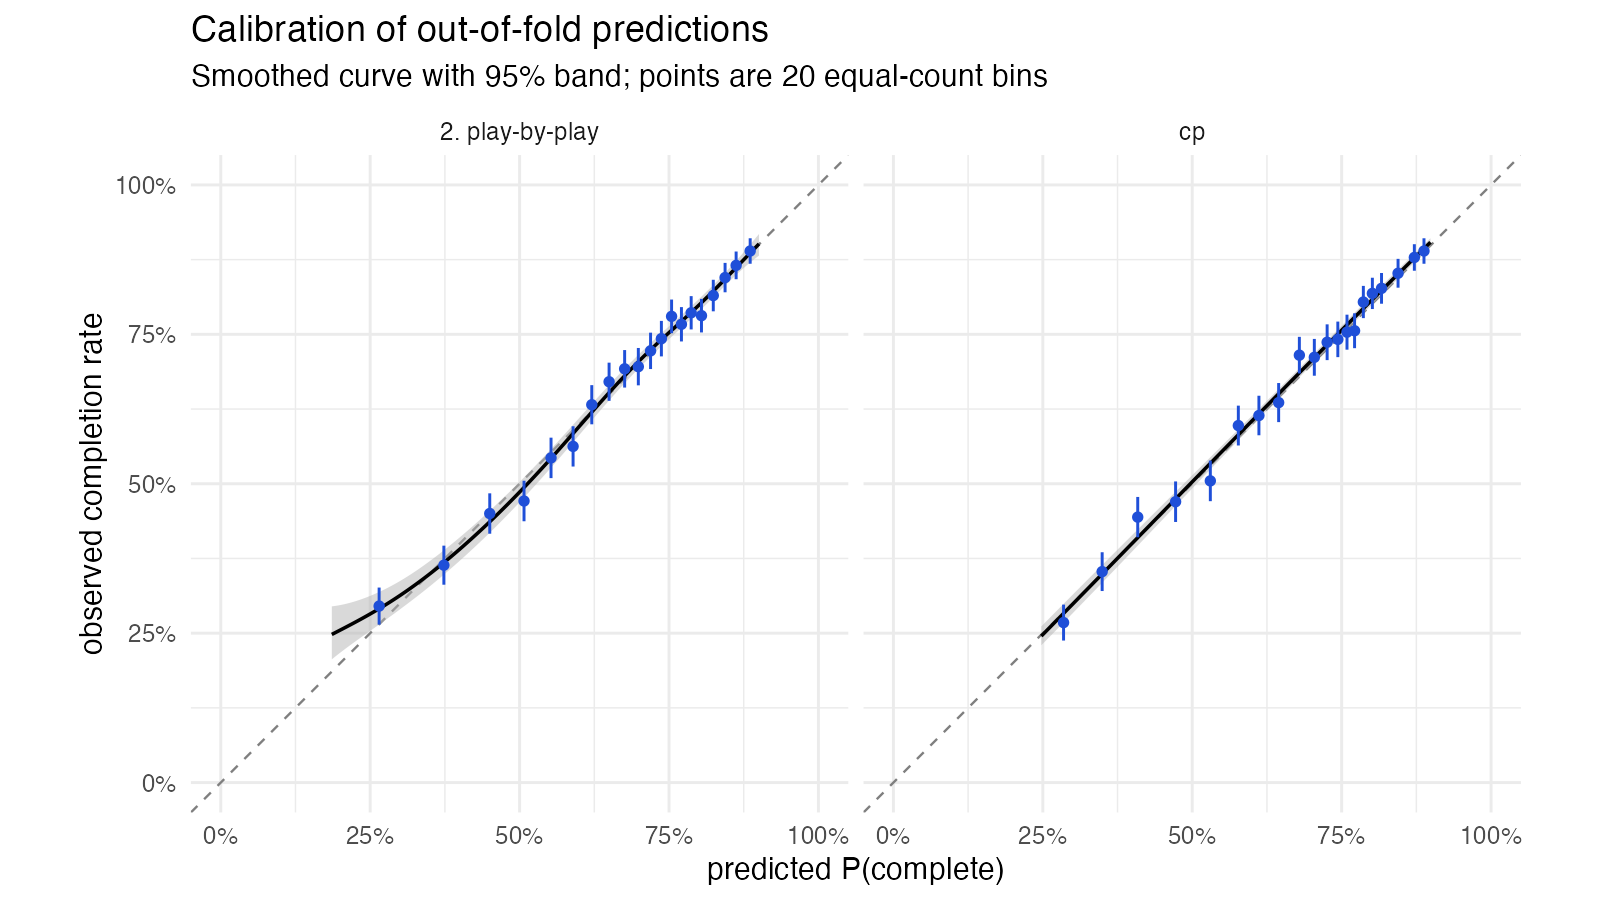
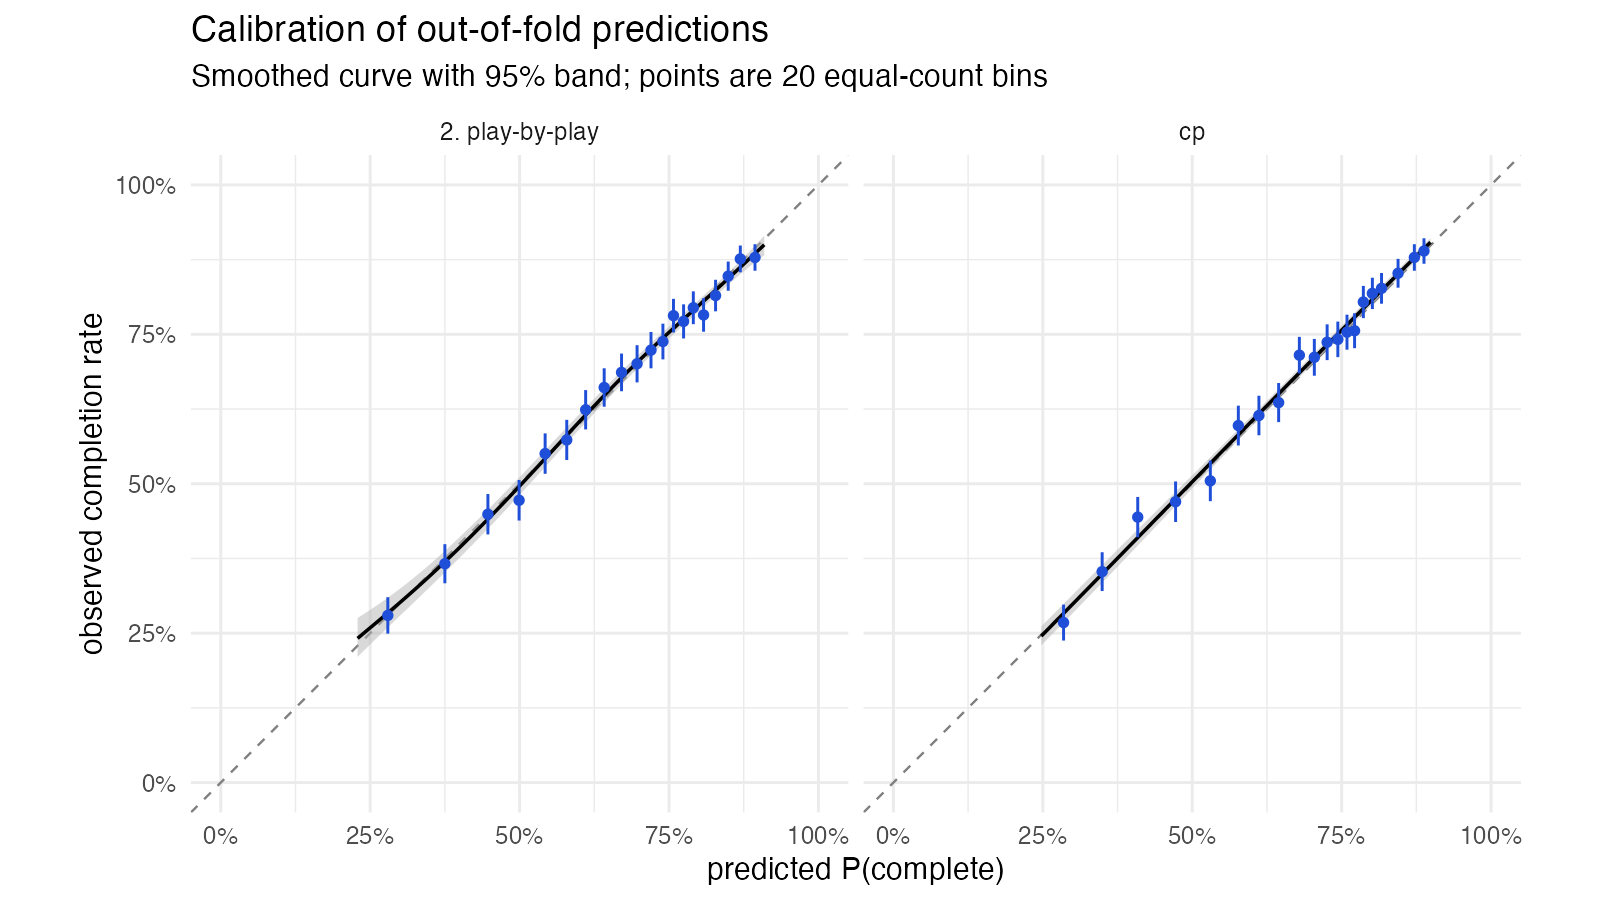
feat(evaluate): QB hit effect varies with depth in stage 2
Stage 2 replaces the single qb_hit coefficient with
s(air_yards, by = qb_hit). A diagnosis of out-of-fold term contributions
found the observed hit effect fading with depth (logit -1.57 behind the
line to -0.32 at 20+ air yards) while the model applied about -0.8
everywhere, over-spreading predictions on deep throws.

Out of fold on 16,643 throws: log loss improves by 0.0012 nats
[0.0003, 0.0021]; deep-bucket calibration slope 0.62 -> 0.76
[0.50, 1.02]; gap to cp 0.0077 -> 0.0065. prepare_model_frame() now
asserts qb_hit is numeric, since a factor `by` fits one smooth per level.

Notebook sections 3 and 7.3 and decisions 7 and 9.3-9.7 updated.

Changed region(s): [[0.2812, 0.2489, 0.5, 0.6222], [0.1875, 0.6222, 0.2812, 0.7467]]

diff --git a/notes/decisions.md b/notes/decisions.md
@@ -683,7 +683,7 @@ cross-validation. Details in §9.
 - **`qb_hit` is a covariate, not a filter.** It does not distinguish "hit
   during the throw" from "hit after", so excluding it would remove real passes
   and may itself select on outcome. Present on 2,761 plays on the spine (14.4%).
-  Its stage 2 coefficient is $-0.88$ (§9.3).
+  It enters stage 2 as a depth-varying effect (§9.3).
 - **Targeted receiver as population** (§4.9). This also closes two earlier
   checks: throwaways and spikes carry no BDB target (all 407 untargeted throws
   in the analytic sample; all 75 spikes), so no separate pbp-derived throwaway
@@ -695,6 +695,8 @@ cross-validation. Details in §9.
 - **Resampling unit for $\Delta$ log loss intervals: game** (§9.5).
 - **Calibration method** (§9.6) and **`cp` benchmark method** (§9.7): fixed
   external predictions, no recalibration.
+- **Stage 2 depth interaction: QB hit × depth** (§9.3). Decided before any
+  stage 3 result exists. Stage 3–4 results are still reported by depth.
 
 ### Open
 
@@ -719,10 +721,6 @@ cross-validation. Details in §9.
 - **`FLAG_GROUP` relabel** for `keep_arrival` (§4.8).
 - **Depth control.** The tracking-derived throw distance replaces `air_yards`
   in stage 2 once `06` exists; `air_yards` becomes a robustness refit (§9.3).
-- **Stage 2 on deep throws.** Calibration slope 0.62 within 20+ air yards
-  (§9.6). Whether stage 2 should gain a depth interaction, given that this
-  changes the baseline geometry is measured against. Until decided, stage 3–4
-  results are reported by depth.
 - **`receiver_player_name` in `pbp.parquet`.** Add it to `PBP_COLS` and re-run
   `05` (a rebuild of `data/processed/pbp.parquet`, no network) so `08` does not
   read the interim mirror.
@@ -977,7 +975,8 @@ Stage 1: intercept-only `glm()`.
 
 Stage 2 (`mgcv::gam()`, REML):
 `s(air_yards) + s(dist_to_sticks) + s(los_x) + s(number_of_pass_rushers, k = 5)
-+ air_yards_zero + down + pass_location + shotgun + home + qb_hit`.
++ s(air_yards, by = qb_hit) + air_yards_zero + down + pass_location + shotgun +
+home`.
 
 **The nesting is the argument.** Stage 2 already knows the situation and the
 throw's depth, so stages 3 and 4 must earn their improvement on coverage
@@ -988,19 +987,60 @@ in-sample $p$-value.**
 Stage 2 follows `cp`'s feature set where BDB supports it. Departures:
 
 - **Three pass locations**, not middle/not-middle. Against left, middle is
-  $+0.177$ (SE 0.047) and right $-0.058$ (SE 0.040, $p = 0.15$). Middle differs
+  $+0.182$ (SE 0.047) and right $-0.055$ (SE 0.041, $p = 0.17$). Middle differs
   from both sides. Left and right differed by about 3.6 SE on the population
   before §4.9 and are not distinguishable on this one; the three-level coding is
   kept rather than revised on a $p$-value.
-- **`number_of_pass_rushers` added** ($\chi^2 = 40.0$, edf 1.01): a defensive
+- **`number_of_pass_rushers` added** ($\chi^2 = 39.9$, edf 1.00): a defensive
   control, so stage 3–4 features cannot be said to recapture rushers versus
   droppers.
-- **`air_yards_zero` included**: $-0.67$ (SE 0.084) against an intercept of
-  $1.08$, about half the odds of completion. When it was added during
+- **`air_yards_zero` included**: $-0.62$ (SE 0.083) against an intercept of
+  $1.09$, about half the odds of completion. When it was added during
   specification (on the population before §4.9), `s(air_yards)` edf rose from
   4.37 to 7.67 and deviance explained improved on a smaller model.
 - `roof` and era omitted: era is meaningless in one season, and `roof` is not
   in `PBP_COLS`.
+- **The QB-hit effect varies with depth**: `s(air_yards, by = qb_hit)` in place
+  of a single `qb_hit` coefficient. A smooth with a numeric `by` is not
+  centered, so it carries the level of the hit effect and there is no separate
+  `qb_hit` term. See below.
+
+**Adopted: QB hit × depth.** Diagnosis of the earlier specification (single
+`qb_hit` coefficient), which had a calibration slope of 0.62 [0.41, 0.84] on
+throws of 20+ air yards (§9.6). Out-of-fold term contributions were refit
+within each air-yards bucket; `qb_hit` was the term whose effect departed from
+its full-sample strength, and the departure was monotone in depth:
+
+| Air yards | Plays with a hit | Observed hit effect (logit) | Model's hit effect (logit) |
+|---|---|---|---|
+| ≤ 0 | 219 (6.5%) | −1.57 | −0.87 |
+| 1–9 | 548 (7.1%) | −0.94 | −0.81 |
+| 10–19 | 407 (11.3%) | −0.49 | −0.82 |
+| 20+ | 251 (12.6%) | −0.32 | −0.78 |
+
+On deep throws this underpredicted hit plays (29.9% observed, 22.6% predicted)
+and overpredicted the rest (36.9%, 39.0%), which over-spread the predictions.
+The argument for the interaction is about the measurement, not a $p$-value:
+`qb_hit` records a hit on the play, not its timing, and on deep throws the hit
+more often comes after the release. Other terms were checked in the same
+diagnosis: `s(air_yards)` holds its strength on deep throws (coefficient 0.89
+[0.34, 1.45]), and pass location is calibrated there. A smaller misfit on deep
+throws from inside the opponent's 30 (29.7% observed, 37.8% predicted, 232
+plays) runs in the opposite direction and was not acted on.
+
+Effect of the change, out of fold on the 16,643-throw population: log loss
+improves by 0.0012 nats [0.0003, 0.0021] (game clusters), in every air-yards
+bucket; the deep-bucket slope moves from 0.62 to 0.76 [0.50, 1.02]; deviance
+explained rises from 9.90% to 10.12%. Fitted hit effect on the logit: −1.27 at
+the line of scrimmage, −0.64 at 10 air yards, −0.40 at 20, −0.17 at 30. Beyond
+about 35 yards it turns slightly positive (+0.09 at 40, SE 0.25), which is
+implausible but indistinguishable from zero given how few hit plays reach that
+depth. The interaction moves to the tracking-derived throw distance when that
+replaces `air_yards`.
+
+The change was made after seeing out-of-fold results for stage 2, but before
+any stage 3 or 4 result exists, so it cannot have been tuned against coverage
+geometry.
 
 Tested and dropped (during specification, on the population before §4.9):
 
@@ -1012,13 +1052,13 @@ Tested and dropped (during specification, on the population before §4.9):
   implausible tail values, and the blowout mechanism behind score differential
   is absent from the data.
 
-**Retained despite being weak:** `s(dist_to_sticks)`, edf 1.03, $p = 0.07$. It
+**Retained despite being weak:** `s(dist_to_sticks)`, edf 1.01, $p = 0.08$. It
 is the model's only `yards_to_go` information.
 
-Other stage 2 effects: `shotgun` $-0.258$ (SE 0.049) — conditional on depth,
-shotgun passes complete less often; `qb_hit` $-0.78$ (SE 0.060), the largest
-parametric effect; third down $-0.16$ (SE 0.048). `s(air_yards)` edf 7.09.
-Deviance explained **9.90%** in-sample.
+Other stage 2 effects: `shotgun` $-0.264$ (SE 0.049) — conditional on depth,
+shotgun passes complete less often; third down $-0.16$ (SE 0.048).
+`s(air_yards)` edf 5.92; the hit-by-depth smooth edf 4.04. Deviance explained
+**10.12%** in-sample.
 
 `air_yards` is provisional because it is charted, not measured. Once `06`
 exists, the tracking-derived throw distance replaces it and `air_yards` becomes
@@ -1053,7 +1093,7 @@ own rate. Both checks are asserted in the notebook.
 |---|---|
 | $H(\bar y)$, $\bar y = 0.668509$ | 0.6352 |
 | Stage 1 | 0.6353 (+0.00011) |
-| Stage 2 | 0.5740 |
+| Stage 2 | 0.5728 |
 | nflverse `cp` | 0.5663 |
 
 **Paired $\Delta$ log loss** (`paired_delta()`): the mean of per-play
@@ -1066,8 +1106,8 @@ check.
 
 | Stage 2 − stage 1 | $\Delta$ | 95% interval | SE (bootstrap) | SE (analytic) | SE (iid) | Design effect |
 |---|---|---|---|---|---|---|
-| game | −0.0613 | [−0.0666, −0.0561] | 0.00267 | 0.00266 | 0.00265 | 1.01 |
-| week | −0.0613 | [−0.0660, −0.0567] | 0.00239 | 0.00247 | 0.00265 | 0.87 |
+| game | −0.0626 | [−0.0678, −0.0573] | 0.00269 | 0.00269 | 0.00268 | 1.01 |
+| week | −0.0626 | [−0.0674, −0.0578] | 0.00244 | 0.00252 | 0.00268 | 0.88 |
 
 Clustering is immaterial for this comparison: game-level factors affect both
 stages' losses alike and cancel in the paired difference. The week design
@@ -1100,23 +1140,25 @@ Figures: `figs/week06/calibration.png`, `calibration_by_air_yards.png`.
 
 | | CITL | Slope |
 |---|---|---|
-| Stage 2 | 0.000 [−0.008, 0.008] | 0.990 [0.944, 1.039] |
+| Stage 2 | 0.000 [−0.008, 0.008] | 0.989 [0.944, 1.037] |
 | `cp` | 0.005 [−0.003, 0.013] | 1.022 [0.979, 1.067] |
 
 | Air yards (n) | Stage 2 slope | `cp` slope |
 |---|---|---|
-| $\le 0$ (3,371) | 0.96 [0.79, 1.13] | 0.97 [0.85, 1.10] |
-| 1–9 (7,679) | 0.98 [0.87, 1.08] | 1.01 [0.91, 1.11] |
-| 10–19 (3,601) | 0.97 [0.81, 1.12] | 1.01 [0.88, 1.15] |
-| 20+ (1,992) | **0.62 [0.41, 0.84]** | 1.05 [0.79, 1.32] |
+| Air yards (n) | Stage 2 slope | Before QB hit × depth | `cp` slope |
+|---|---|---|---|
+| $\le 0$ (3,371) | 0.86 [0.71, 0.99] | 0.96 [0.79, 1.13] | 0.97 [0.85, 1.10] |
+| 1–9 (7,679) | 0.95 [0.84, 1.05] | 0.98 [0.87, 1.08] | 1.01 [0.91, 1.11] |
+| 10–19 (3,601) | 1.11 [0.94, 1.28] | 0.97 [0.81, 1.12] | 1.01 [0.88, 1.15] |
+| 20+ (1,992) | **0.76 [0.50, 1.02]** | 0.62 [0.41, 0.84] | 1.05 [0.79, 1.32] |
 
-CITL intervals contain zero in every bucket for both. **Stage 2 is too extreme
-within deep throws**: its additive terms move predictions among deep throws at
-the strength they have across all throws, and the outcomes do not support that
-spread. `cp`, which can represent interactions, does not show it. Recorded as an
-open question (§7) rather than fixed, because adding a depth interaction would
-change the baseline that geometry is measured against. The stage 3–4
-comparison is to be reported by depth as well as overall.
+CITL intervals contain zero in every bucket for both. **Deep throws remain stage
+2's weakest bucket.** Before the QB hit × depth interaction its slope there was
+0.62 and the interval excluded 1; the interaction (§9.3) brings it to 0.76,
+with an interval that just includes 1. The behind-the-line bucket's slope fell
+to 0.86 [0.71, 0.99]; that bucket leaves the population with the
+beyond-the-line filter. Stage 3–4 results are reported by depth as well as
+overall.
 
 ### 9.7 The `cp` benchmark
 
@@ -1125,13 +1167,14 @@ it is not refit or recalibrated.
 
 | Comparison (game clusters) | $\Delta$ | 95% interval |
 |---|---|---|
-| Stage 2 − `cp` | +0.0077 | [+0.0058, +0.0096] |
+| Stage 2 − `cp` | +0.0065 | [+0.0048, +0.0083] |
 | `cp` − stage 1 | −0.0691 | [−0.0743, −0.0638] |
 
-`cp` beats stage 2 by 0.0077 nats; stage 2 captures 89% of `cp`'s improvement
-over the base rate. Both are calibrated overall, so the gap is in
+`cp` beats stage 2 by 0.0065 nats (0.0077 before the QB hit × depth
+interaction); stage 2 captures 91% of `cp`'s improvement over the base rate. Both are calibrated overall, so the gap is in
 discrimination. Plausible sources, not separable here: `cp`'s model class
-represents interactions (consistent with the deep-throw finding in §9.6), it is
+represents interactions (consistent with the deep-throw findings in §9.3 and
+§9.6), it is
 trained on far more plays, and 2018 is partly in its training data. The gap is
 the reference point for stages 3 and 4.
 
